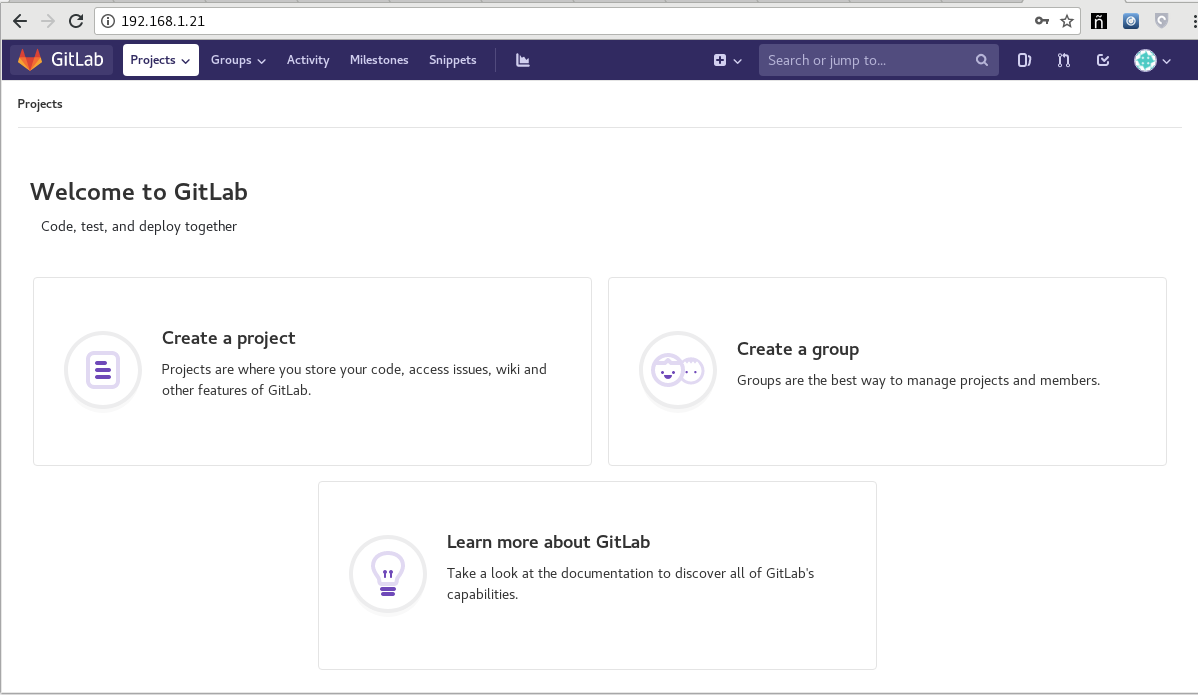
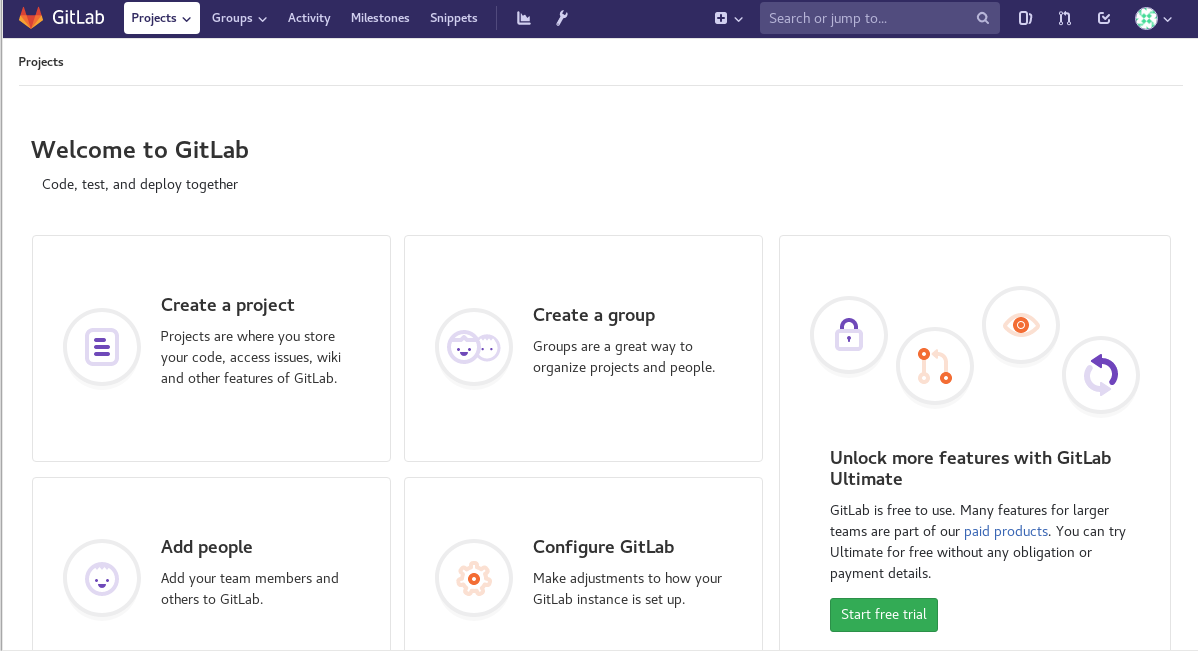
First Commit

diff --git a/guia/personalizar.rst b/guia/personalizar.rst
@@ -1,9 +1,12 @@
 Personalizar GitLab Enterprise Edition
 ======================================
 
-Lo primero que debemos hacer es eliminar el autoregistro, para tener una administracion centralizada.
+Eliminar Register
+++++++++++++++++++++
 
-Ingresamos con algun super usuario y buscamos Admin area.
+Lo primero que debemos hacer es eliminar el autoregistro, para tener una administración centralizada.
+
+Ingresamos con algún súper usuario y buscamos Admin área.
 
 .. figure:: ../images/04.png
 
@@ -13,7 +16,7 @@ Buscamos Setting.
 .. figure:: ../images/05.png
 
 
-Y luego buscamos Sign-up restrictions y ahí deshabilitamos el registro automatico
+Y luego buscamos Sign-up restrictions y ahí deshabilitamos el registro automático
 
 .. figure:: ../images/06.png
 
@@ -30,4 +33,37 @@ Quitamos el check de Sign-up enabled y salvamos
 Y ya tenemos solo el Sing in, ya no esta el area de Register
 
 .. figure:: ../images/09.png
+
+
+
+Los siguientes cambios los vamos hacer todos en "Appearance"
+
+.. figure:: ../images/10.png
+
+Cambiar el Header Logo de Navigation bar
++++++++++++++++++++++++++++++++++++++++++
+
+En "Navigation bar:" seleccionamos el botón "Seleccionar Archivo" y buscamos nuestra imagen, la seleccionamos y salvamos.
+
+
+.. figure:: ../images/11.png
+
+
+.. figure:: ../images/12.png
+
+
+.. figure:: ../images/13.png
+
+
+Nos desconectamos para ver los cambios.
+
+.. figure:: ../images/14.png
+
+
+Cambiar el icono de Favicon
+++++++++++++++++++++++++++++
+
+
+Cambiar Logo de Sign in/Sign up pages
++++++++++++++++++++++++++++++++++++++
 

diff --git a/guia/instalargitlab.rst b/guia/instalargitlab.rst
@@ -26,7 +26,7 @@ Instalamos el Gitlab.::
 	For a comprehensive list of configuration options please see the Omnibus GitLab readme
 	https://gitlab.com/gitlab-org/omnibus-gitlab/blob/master/README.md
 
-Procedemo a a ejecutar la autoconfiguracion de Gitlab.::
+Procedemos a a ejecutar la autoconfiguración de Gitlab.::
 
 	gitlab-ctl reconfigure
 	[...]
@@ -114,7 +114,7 @@ Verificamos todos los puertos que coloca en listen.::
 	tcp6       0      0 :::9094                 :::*                    LISTEN      7046/alertmanager    
 
 
-Verificamos y más que todo para tener un historico de todos los procesos que deben levantar.::
+Verificamos y más que todo para tener un histórico de todos los procesos que deben levantar.::
 
 	# ps -ef | grep git
 	root      4921     1  0 17:09 ?        00:00:00 runsvdir -P /opt/gitlab/service log: ...........................................................................................................................................................................................................................................................................................................................................................................................................

diff --git a/guia/configuracioninicial.rst b/guia/configuracioninicial.rst
@@ -1,4 +1,4 @@
-Configuracion Inicial de GitLab Enterprise Edition
+Configuración Inicial de GitLab Enterprise Edition
 ==================================================
 
 Procedemos a ingresar por medio de un navegador a la IP del servidor en donde instalamos GitLab Enterprise Edition, en este caso: http://192.168.0.21
